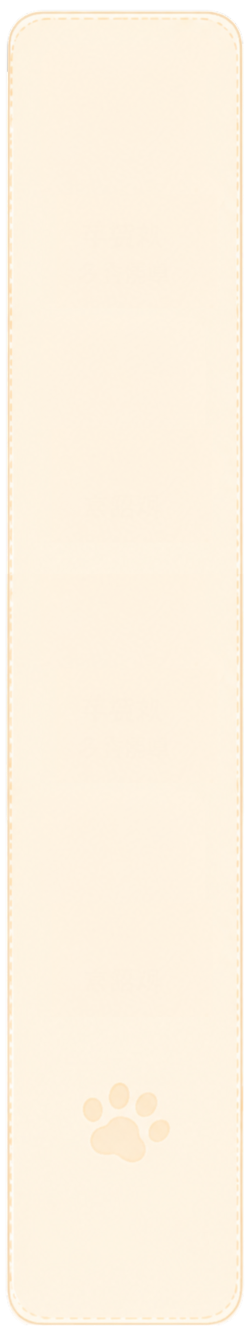
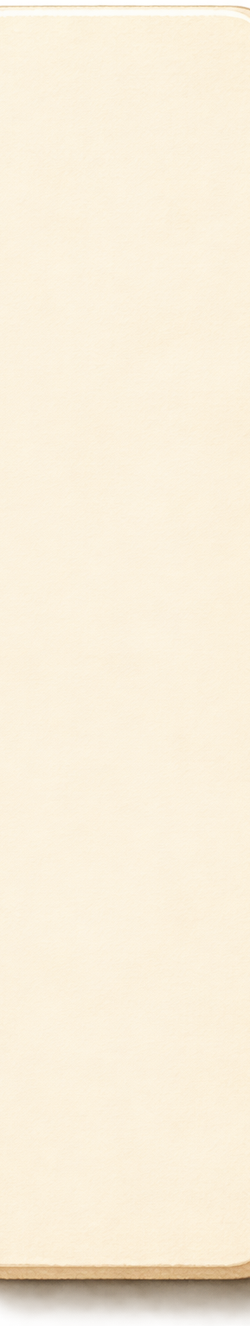
assets: 宠物面板左栏板立体化——同形重绘为浮起水彩卡片(顶左受光/底右压暗+柔投影),板面素净零布局改动;真平台验证;VERDICT 1114

Changed region(s): [[0.0, 0.0, 1.0, 1.0]]

diff --git a/assets/source/meowa/style-switch/raise_pet_rail.py b/assets/source/meowa/style-switch/raise_pet_rail.py
@@ -1,0 +1,51 @@
+# -*- coding: utf-8 -*-
+"""宠物面板左栏板立体化(2026-10-26 用户令:左上角那块立体凸出来)。
+现板为参照,同形重绘为浮起水彩卡片:顶/左受光提亮,底/右压暗+柔投影。"""
+import glob
+import os
+import subprocess
+import sys
+
+from PIL import Image
+
+API = r"C:\Users\sheen\.agents\skills\game-assets\meowart_api.py"
+OUT = 'assets/source/meowa/style-switch/pet_rail_raised'
+CUR = 'assets/runtime/ui/pet_profile_new/pet_avatar_rail.png'
+
+PROMPT = (
+    "Repaint this vertical pet panel board as a RAISED three-dimensional "
+    "watercolor card that floats above the background: keep the same "
+    "vertical rounded-board shape and size, but paint it with clear "
+    "thickness - a soft bright highlight along the top and left edges as "
+    "if lit from above-left, gently darkened bottom and right edges "
+    "showing the board's side thickness, and a soft warm drop shadow "
+    "spilling onto the lower-right outside the board. The board face "
+    "stays soft plain cream watercolor paper, calm and empty (no slots, "
+    "no objects, no text) - avatar icons will be placed on it later by "
+    "the app. Cozy watercolor storybook style, transparent background "
+    "outside the board and its shadow.")
+
+r = subprocess.run([sys.executable, API, 'image-2.5-run',
+    '--output-dir', OUT, '--quality', 'detailed', '--resolution', '1K',
+    '--aspect-ratio', '9:16', '--remove-bg-method', 'standard',
+    '--reference-image', CUR, '--prompt', PROMPT],
+    capture_output=True, text=True, timeout=300)
+ok = '"status": "success"' in r.stdout
+print('gen:', 'OK' if ok else 'FAIL')
+if not ok:
+    print(r.stdout[-300:]); sys.exit(1)
+src = glob.glob(os.path.join(OUT, '*', 'result_images_0_url.png'))[0]
+im = Image.open(src).convert('RGBA')
+# 9:16(0.5625)→目标 250/1326(0.1885):竖向比例远比目标更方,横向裁切
+target_ratio = 250 / 1326
+crop_w = int(im.height * target_ratio)
+if crop_w <= im.width:
+    x0 = (im.width - crop_w) // 2
+    im = im.crop((x0, 0, x0 + crop_w, im.height))
+else:
+    crop_h = int(im.width / target_ratio)
+    y0 = (im.height - crop_h) // 2
+    im = im.crop((0, y0, im.width, y0 + crop_h))
+im = im.resize((250, 1326), Image.LANCZOS)
+im.save(CUR)
+print('IMPORT', im.size)

diff --git a/HANDOFF.md b/HANDOFF.md
@@ -67,6 +67,7 @@ D:\Agent_project\Petpet
 
 | 领域 | 内容 |
 |------|------|
+| **宠物面板左栏板立体化**（2026-10-26 追记六，待发） | 用户令「左上角那块立体凸出来」(复述理解后执行)——左栏头像板同形重绘为浮起水彩卡片(顶左受光提亮/底右压暗显厚度/右下柔投影,板面素净无槽);9:16 裁至精确比例;真平台截图验证;VERDICT **1114**;积分-7 余~462;详见 Obsidian `开发记录\2026-10-26 点击流畅度与双响排查`(追记六) |
 | **宠物面板背景重绘**（2026-10-26 追记五，待发） | 用户令「布局不错但整体差点意思,优化」——同构图换画法:现背景唯一参照严格保位重绘(横幅/虚线圆/粉垫/左栏位置尺寸锁死),richer 水彩(渐变纸纹柔影);3:4 微裁至 0.748 精确比例;真平台对位截图验证;VERDICT **1114**;积分-7 余~469;详见 Obsidian `开发记录\2026-10-26 点击流畅度与双响排查`(追记五) |
 | **面板背景主题化 v2+聊天界面**（2026-10-26 追记四，待发） | 用户否 v1 纯色底「要和功能相关,如小游戏=三宠一起玩耍,别太大,可爱柔和」——6 张主题底图重生成(三宠参照锚身份;角落小景<1/4,四象限实测右下 32-41%/上半 0-0.2%;games=追球/daily=空白日历盖爪印/records=空白日记爪印径/achievements=金牌星星/settings=依偎开关爱心/chat=空气泡爱心)+聊天窗底图路由(原共享商店底);积分-66 余~476。VERDICT **1114**;详见 Obsidian `开发记录\2026-10-26 点击流畅度与双响排查`(追记四) |
 | **五面板素材美化**（2026-10-26 追记三，待发） | 用户定方向(常改界面用户主导,我只动不常打理域):设置/小游戏/成就/记录/每日——5 张专属水彩底图(奶油纸系+极淡主题色+右下烘焙小装饰,零新控件)+2 枚共享水彩胶囊按钮皮肤(softButton 增补 QSS,仅五目标窗口挂旗,商店/装修不受影响)+BACKGROUND_ASSET 类属性路由+小游戏主键挂名;真平台截图验收;VERDICT **1114**;详见 Obsidian `开发记录\2026-10-26 点击流畅度与双响排查`(追记三) |
